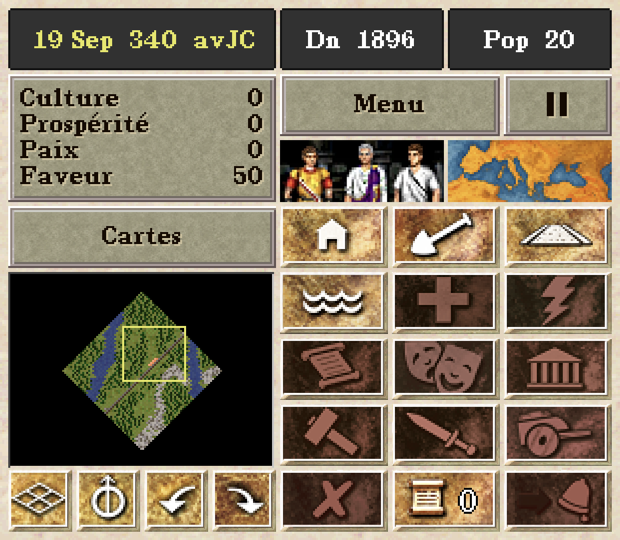
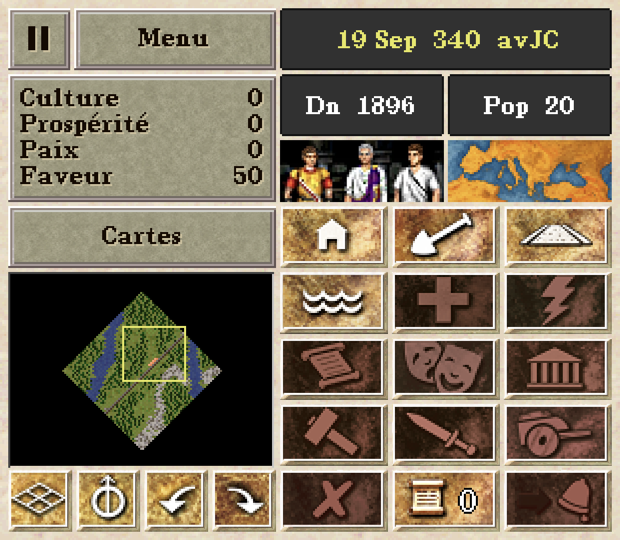
feat(ui): move Pause and Menu to the top left of the panel
Pause becomes a square in the top left corner, and Menu fills the
rest of that row. The date moves to the top right and spans the
whole column, with the treasury and population side by side below
it. The Pause and Play icons are redrawn for the square button, and
the README shows the new panel.

Changed region(s): [[0.0, 0.0, 1.0, 0.2667]]

diff --git a/src/widget/sidebar/city.c b/src/widget/sidebar/city.c
@@ -147,7 +147,7 @@ static image_button buttons_top_expanded[] = {
     {123, 184, 33, 22, IB_NORMAL, GROUP_SIDEBAR_BRIEFING_ROTATE_BUTTONS, 9, button_rotate, button_none, 1, 0, 1},
 };
 
-static const panel_area panel_date = {4, 4, 134, 31};
+static const panel_area panel_date = {140, 4, 166, 31};
 static const panel_area panel_minimap = {4, 136, 134, 97};
 
 enum {
@@ -160,15 +160,15 @@ enum {
 };
 
 static generic_button panel_text_buttons[PANEL_TEXT_BUTTONS] = {
-    [PANEL_BUTTON_FUNDS] = {140, 4, 82, 31, button_panel_advisor, 0, ADVISOR_FINANCIAL},
-    [PANEL_BUTTON_POPULATION] = {224, 4, 82, 31, button_panel_advisor, 0, ADVISOR_POPULATION},
+    [PANEL_BUTTON_FUNDS] = {140, 37, 82, 31, button_panel_advisor, 0, ADVISOR_FINANCIAL},
+    [PANEL_BUTTON_POPULATION] = {224, 37, 82, 31, button_panel_advisor, 0, ADVISOR_POPULATION},
     [PANEL_BUTTON_RATINGS] = {4, 37, 134, 64, button_panel_advisor, 0, ADVISOR_RATINGS},
     [PANEL_BUTTON_OVERLAY] = {4, 103, 134, 31, button_panel_overlay},
-    [PANEL_BUTTON_MENU] = {140, 37, 110, 31, button_panel_menu},
+    [PANEL_BUTTON_MENU] = {37, 4, 101, 31, button_panel_menu},
 };
 
 static image_button panel_button_pause[] = {
-    {252, 37, 54, 31, IB_NORMAL, 0, 0, button_toggle_pause, button_none, 0, 0, 1, PANEL_ASSETS, "pause"},
+    {4, 4, 31, 31, IB_NORMAL, 0, 0, button_toggle_pause, button_none, 0, 0, 1, PANEL_ASSETS, "pause"},
 };
 
 static image_button panel_buttons_advisors_empire[] = {
